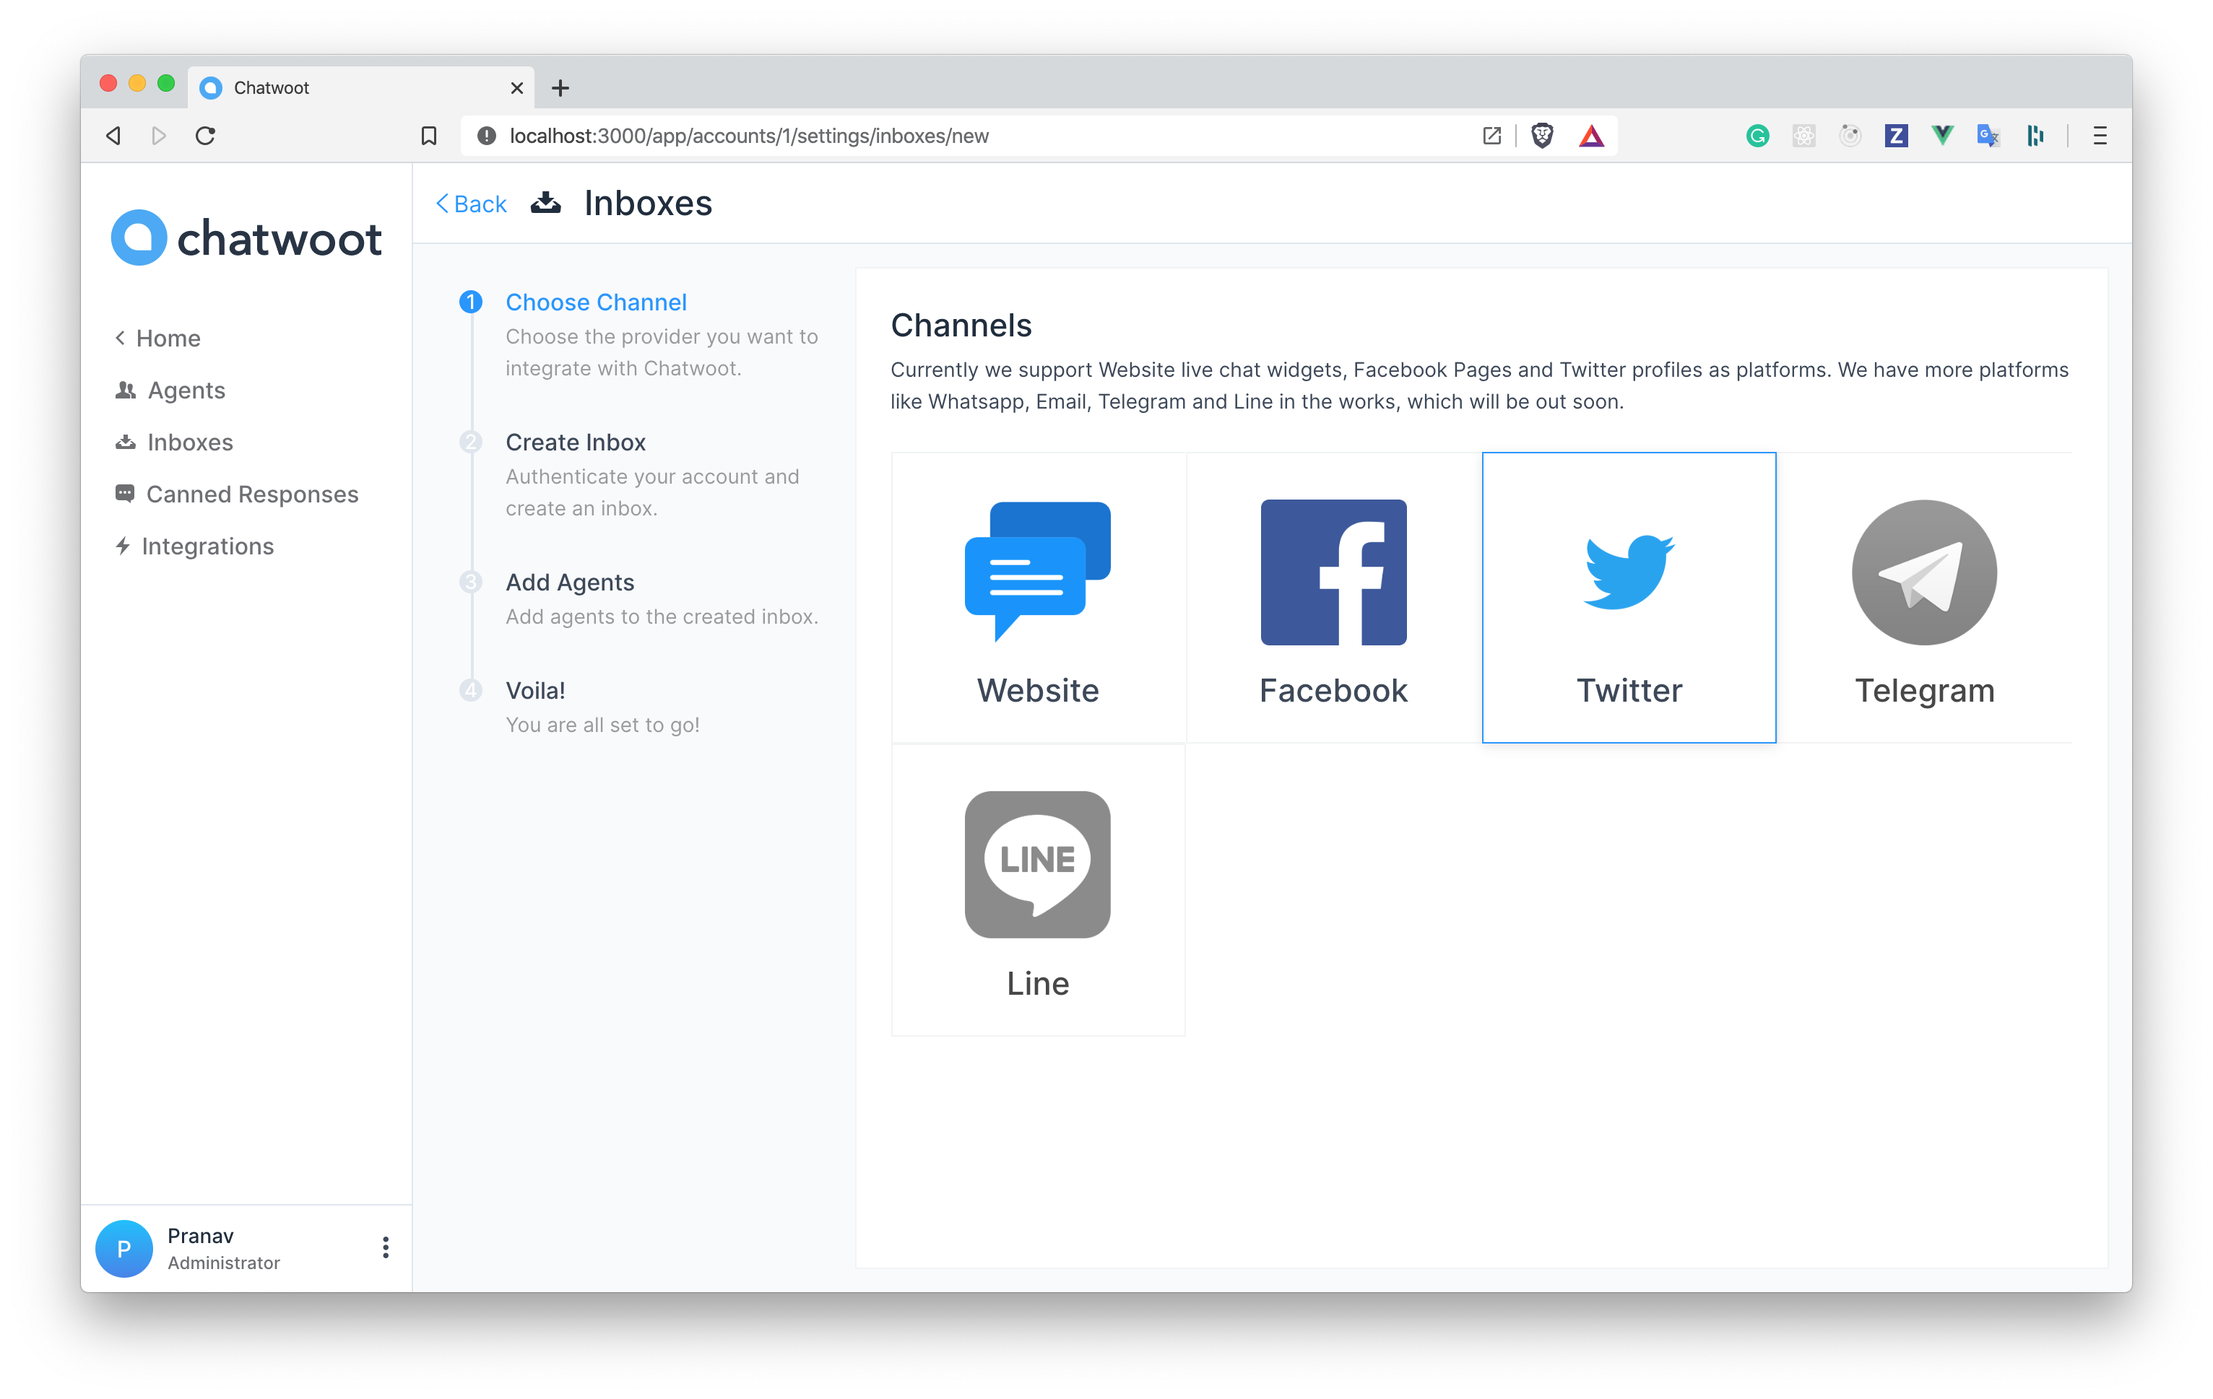
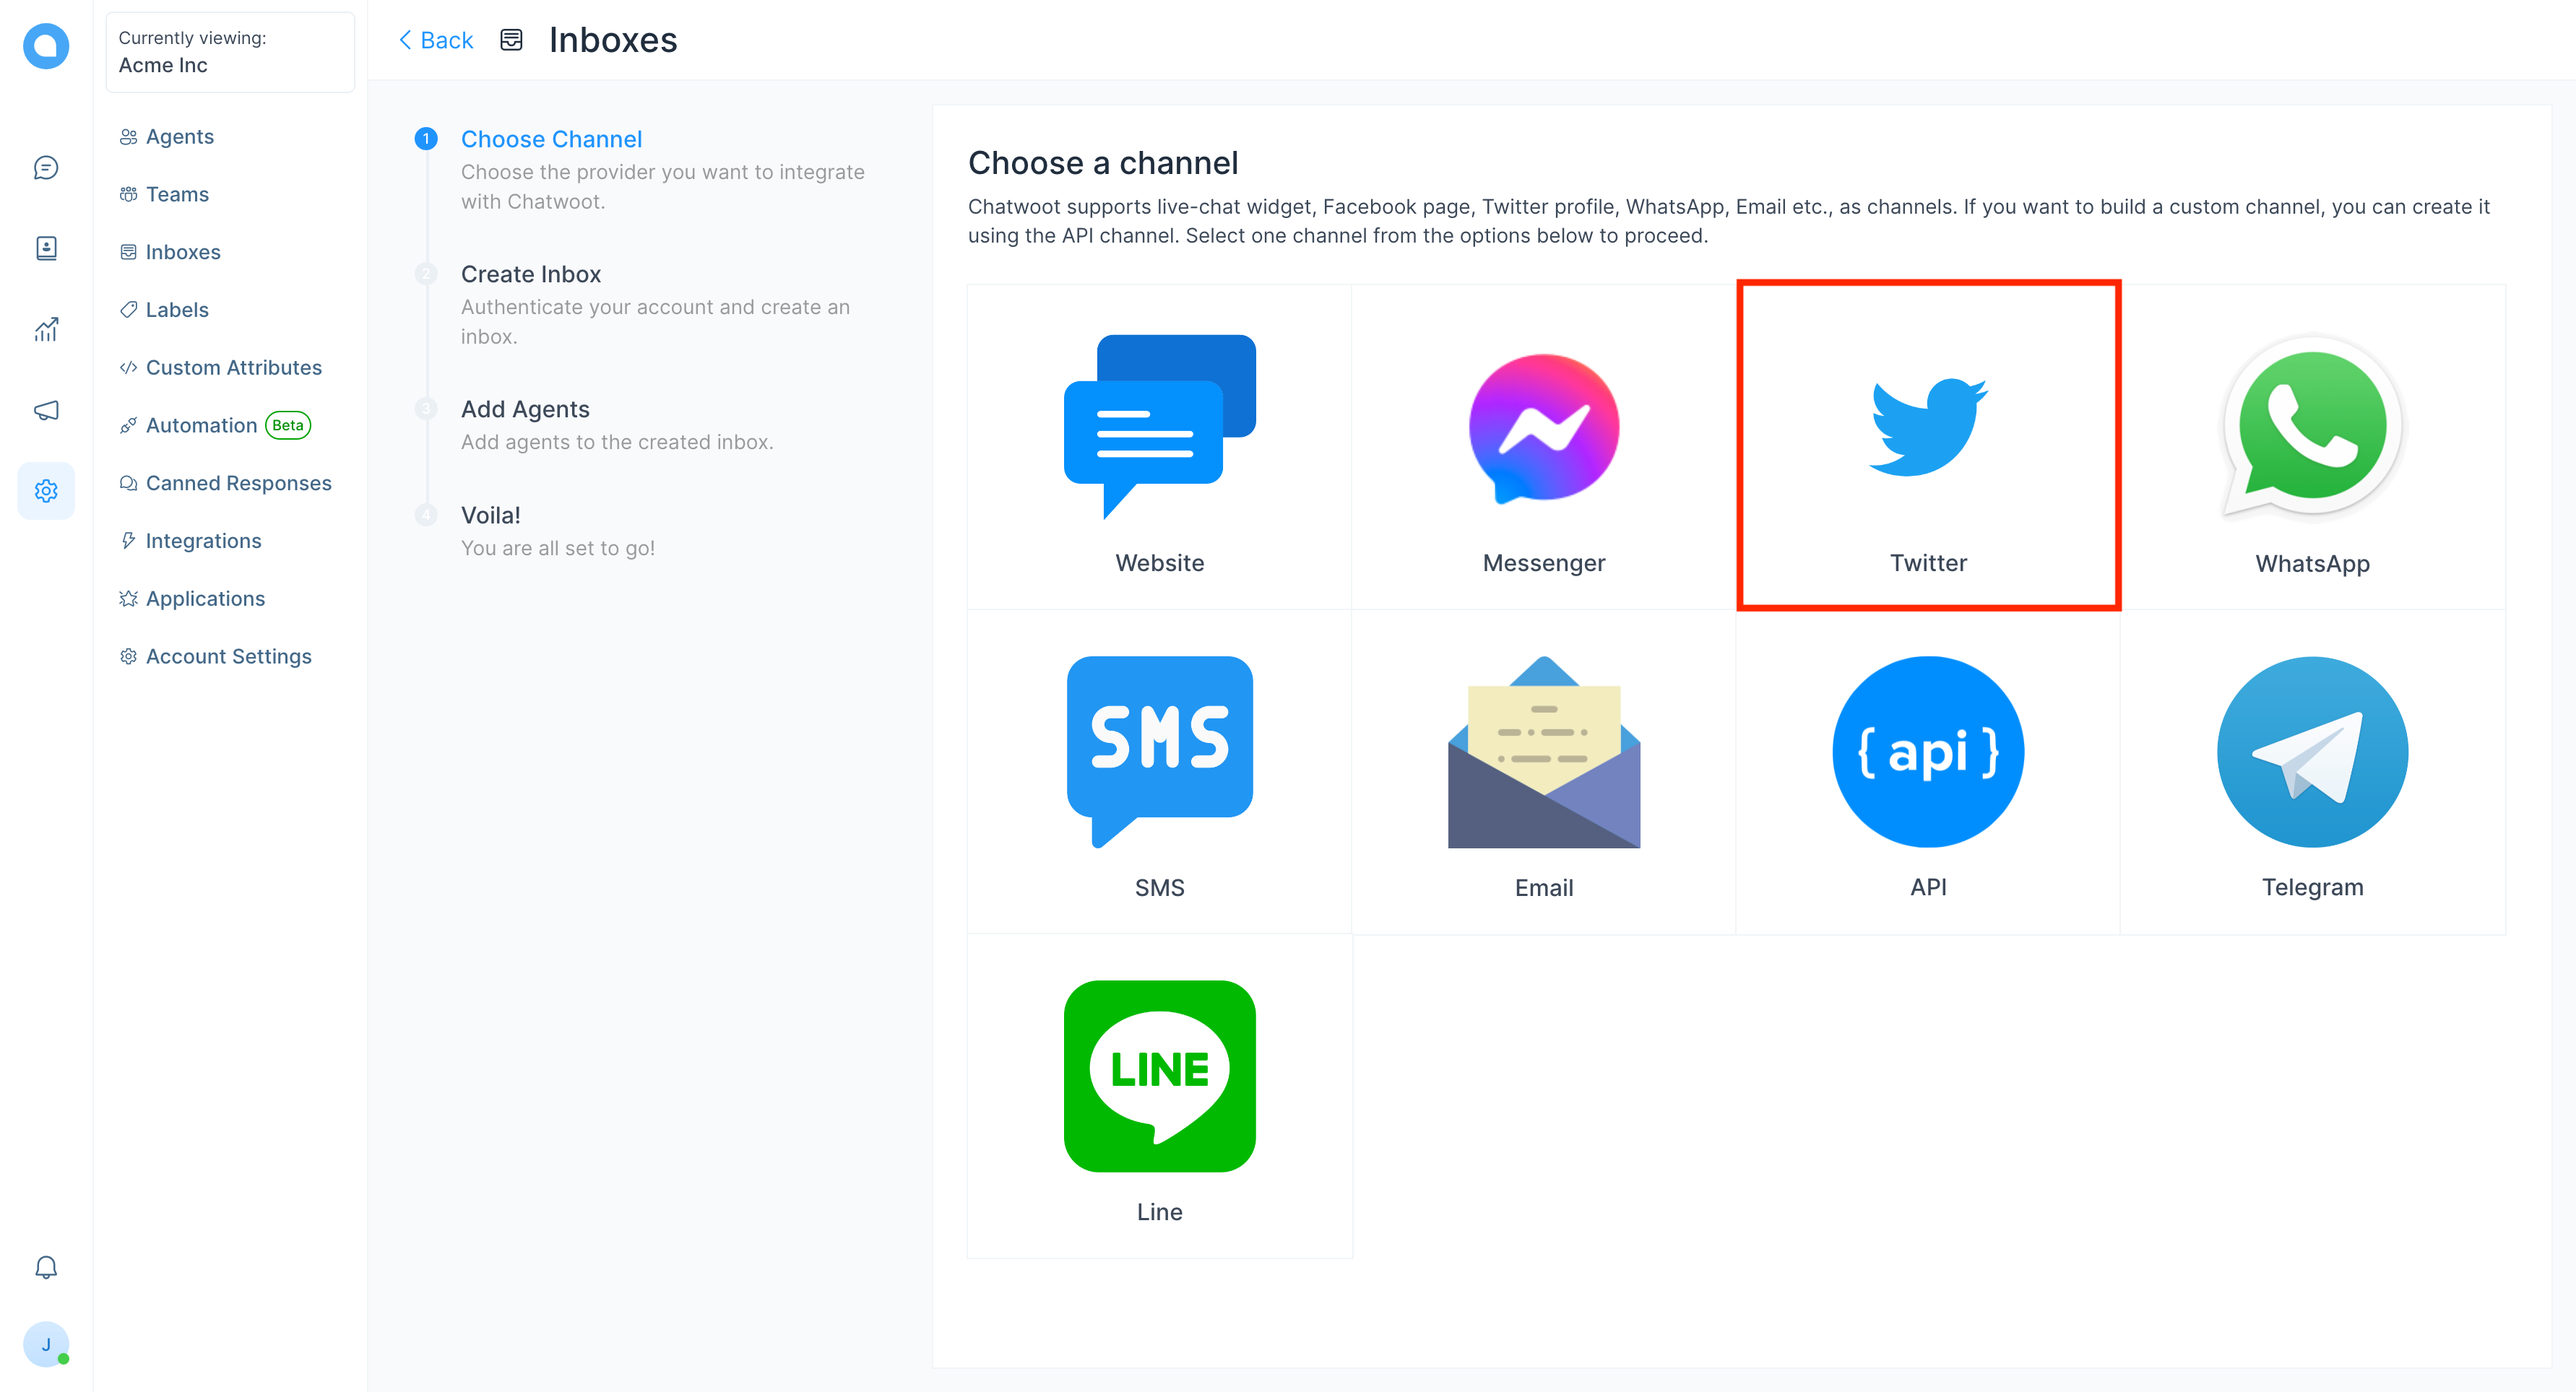
chore: Clean up Channel Instructions

diff --git a/config/sidebar/product.js b/config/sidebar/product.js
@@ -52,14 +52,17 @@ module.exports = [
       "product/channels/facebook",
       "product/channels/instagram",
       "product/channels/twitter",
-      "product/channels/twilio-whatsapp-sms",
       {
-        "API Channel": [
-          "product/channels/api/create-channel",
-          "product/channels/api/send-messages",
-          "product/channels/api/receive-messages",
-          "product/channels/api/client-apis",
-        ],
+        "Whatsapp Channel": [      
+          "product/channels/whatsapp/twilio",
+          "product/channels/whatsapp/360dialog"
+        ]
+      },
+      {
+        "SMS Channel": [      
+          "product/channels/sms/twilio",
+          "product/channels/sms/bandwidth"
+        ]
       },
       {
         Email: [
@@ -75,6 +78,14 @@ module.exports = [
               "product/channels/email/gmail/add-forward-email",
             ],
           },
+        ],
+      },
+      {
+        "API Channel": [
+          "product/channels/api/create-channel",
+          "product/channels/api/send-messages",
+          "product/channels/api/receive-messages",
+          "product/channels/api/client-apis",
         ],
       },
       "product/channels/telegram",

diff --git a/docs/product/channels/whatsapp/twilio.md b/docs/product/channels/whatsapp/twilio.md
@@ -1,0 +1,82 @@
+---
+sidebar_label: "Twilio"
+title: 'How to create a Whatsapp channel with Twilio?'
+---
+
+**Step 1**. Go to "Settings" page by clicking the settings icon in the left sidebar.
+
+![dashboard](../images/line/dashboard.png)
+
+**Step 2**. Select "Inboxes" from left side panel and Click on "Add Inbox" button.
+
+![inbox_settings](../images/line/inbox_settings.png)
+
+**Step 3**. Click on the Whatspp Icon.
+
+![inbox_settings](../images/whatsapp/select_whatsapp.png)
+
+**Step 4**. Select `Twilio` as the provider option and Configure the inbox.
+
+These are the inputs required to create this channel:
+
+<div class="table table-striped">
+
+| Input        | Description                                                                                                           | Where can I find it                                                                            |
+| ------------ | --------------------------------------------------------------------------------------------------------------------- | ---------------------------------------------------------------------------------------------- |
+| Inbox Name | This is the name inbox, this will be used across the application.                                                     | N/A                                                                                            |
+| Phone Number | This is the number you will be using to communicate with your customer. This has to be verified in Twilio.            | Enter your number as in the Twilio Dashboard                                                   |
+| Account SID  | Account SID in Twilio Console                                                                                         | Login to Twilio Console. Here, you would be able to see the Account SID and the Auth Token     |
+| Auth Token   | Auth token for the account                                                                                            | Login to the Twilio Console. Here, you would be able to see the Account SID and the Auth Token |
+
+</div>
+
+Click `Create Twilio Channel` after filling in the information.
+
+![create_twilio](../images/whatsapp/twilio_add_details.png)
+
+**Step 5**. "Add agents" to your inbox.
+
+![add_agents](../images/twilio/add_agents.png)
+
+**Step 6**. Hooray! You have successfully created a whatsapp inbox.
+
+![finish_inbox](../images/twilio/finish_inbox.png)
+
+
+To connect a **Whatsapp** channel, you have to configure a callback URL in the Twilio inbox:
+
+- Login to your Twilio Console.
+- Go to `Programmable SMS > Whatsapp > Senders`.
+- You will be able to see your phone number. Click on it, it will display a field like the one shown below.
+
+![twilio_console](../images/twilio/twilio_console.png)
+
+- Provide `https://app.chatwoot.com/twilio/callback` as the value for `WHEN A MESSAGE COMES IN` input.
+
+**Step 7**. If you want to update the agents who have access to the inbox, you can go to Settings > Inboxes.
+
+![inbox_settings](../images/twilio/inbox_settings.png)
+
+
+## Configuring Chatwoot with Twilio Studio 
+
+If you are using twilio studio for a custom conversation flow, Updating the webhook url directly will break your exising Integration. 
+
+For such cases you can follow the given steps. 
+
+1. Identify the step in your flow where you want the `agent handoff` to happen.
+2. Add a `make http request widget` as shown below with the give values
+
+![twilio_studio](../images/twilio/twilio_studio.png)
+
+**REQUEST METHOD** : POST
+
+**REQUEST URL**: https://app.chatwoot.com/twilio/callback
+
+**CONTENT TYPE**: Application/JSON
+
+**REQUEST BODY**: `{{trigger.message | to_json }}` ( make changes as required based on your flow variables)
+
+> HTTP request widget will forward the message body to Chatwoot. This will create a conversation in Chatwoot from where the agent can reply. 
+
+3. Make sure that your flow can handle the user reponses to Agent Replies. 

diff --git a/docs/product/channels/sms/twilio.md b/docs/product/channels/sms/twilio.md
@@ -1,0 +1,73 @@
+---
+sidebar_label: "Twilio"
+title: 'How to create a SMS channel with Twilio?'
+---
+
+**Step 1**. Go to "Settings" page by clicking the settings icon in the left sidebar.
+
+![dashboard](../images/line/dashboard.png)
+
+**Step 2**. Select "Inboxes" from left side panel and Click on "Add Inbox" button.
+
+![inbox_settings](../images/line/inbox_settings.png)
+
+**Step 3**. Click on the SMS Icon.
+
+![inbox_settings](../images/sms/select_sms.png)
+
+**Step 4**. Select `Twilio` as the provider option and Configure the inbox.
+
+These are the inputs required to create this channel:
+
+<div class="table table-striped">
+
+| Input        | Description                                                                                                           | Where can I find it                                                                            |
+| ------------ | --------------------------------------------------------------------------------------------------------------------- | ---------------------------------------------------------------------------------------------- |
+| Channel Name | This is the name inbox, this will be used across the application.                                                     | N/A                                                                                            | 
+| Phone Number | This is the number you will be using to communicate with your customer. This has to be verified in Twilio.            | Enter your number as in the Twilio Dashboard                                                   |
+| Account SID  | Account SID in Twilio Console                                                                                         | Login to Twilio Console. Here, you would be able to see the Account SID and the Auth Token     |
+| Auth Token   | Auth token for the account                                                                                            | Login to the Twilio Console. Here, you would be able to see the Account SID and the Auth Token |
+
+</div>
+
+Click `Create Twilio Channel` after filling in the information.
+
+![create_twilio](../images/sms/twilio_add_details.png)
+
+**Step 5**. "Add agents" to your inbox.
+
+![add_agents](../images/twilio/add_agents.png)
+
+**Step 6**. Hooray! You have successfully created a whatsapp/sms inbox.
+
+![finish_inbox](../images/twilio/finish_inbox.png)
+
+You will start receiving the messages in the dashboard whenever a customer sends you one.
+
+**Step 7**. If you want to update the agents who have access to the inbox, you can go to Settings > Inboxes.
+
+![inbox_settings](../images/twilio/inbox_settings.png)
+
+
+## Configuring Chatwoot with Twilio Studio 
+
+If you are using twilio studio for a custom conversation flow, Updating the webhook url directly will break your exising Integration. 
+
+For such cases you can follow the given steps. 
+
+1. Identify the step in your flow where you want the `agent handoff` to happen.
+2. Add a `make http request widget` as shown below with the give values
+
+![twilio_studio](../images/twilio/twilio_studio.png)
+
+**REQUEST METHOD** : POST
+
+**REQUEST URL**: https://app.chatwoot.com/twilio/callback
+
+**CONTENT TYPE**: Application/JSON
+
+**REQUEST BODY**: `{{trigger.message | to_json }}` ( make changes as required based on your flow variables)
+
+> HTTP request widget will forward the message body to Chatwoot. This will create a conversation in Chatwoot from where the agent can reply. 
+
+3. Make sure that your flow can handle the user reponses to Agent Replies. 

diff --git a/docs/product/channels/sms/bandwidth.md b/docs/product/channels/sms/bandwidth.md
@@ -1,0 +1,33 @@
+---
+sidebar_label: "Bandwidth"
+title: "How to create a SMS channel using Bandwidth?"
+---
+
+**Step 1**. Go to "Settings" page by clicking the settings icon in the left sidebar.
+
+![dashboard](../images/line/dashboard.png)
+
+**Step 2**. Select "Inboxes" from left side panel and Click on "Add Inbox" button.
+
+![inbox_settings](../images/line/inbox_settings.png)
+
+**Step 3**. Click on the SMS Icon.
+
+![inbox_settings](../images/sms/select_sms.png)
+
+**Step 4**. Select `Bandwidth` as the provider option and Configure the inbox.
+
+
+Click `Create Bandwidth Channel` after filling in the information.
+
+![create_bandwidth](../images/sms/bandwidth_add_details.png)
+
+**Step 5**. "Add agents" to your inbox.
+
+![add_agents](../images/twilio/add_agents.png)
+
+**Step 6**. Hooray! You have successfully created a sms inbox.
+
+![finish_inbox](../images/sms/bandwidth_finish_setup.png)
+
+You will start receiving the messages in the dashboard whenever a customer sends you one.

diff --git a/docs/product.md b/docs/product.md
@@ -21,9 +21,12 @@ This user guide includes a description of the features and capabilities, modes o
 - [Facebook](/docs/product/channels/facebook)
 - [Instagram](/docs/product/channels/instagram)
 - [Twitter](/docs/product/channels/twitter)
-- [Whatsapp via Twilio](/docs/product/channels/twilio-whatsapp-sms)
-- [API Channel](/docs/product/channels/api/create-channel)
+- [Whatsapp via Twilio](/docs/product/channels/whatsapp/twilio)
+- [Whatsapp via 360Dialog](/docs/product/channels/whatsapp/360dialog)
+- [SMS via Twilio](/docs/product/channels/whatsapp/twilio)
+- [SMS via Bandwidth](/docs/product/channels/whatsapp/bandwidth)
 - [Email](/docs/product/channels/email/create-channel)
+- [API Channel](/docs/product/channels/api/create-channel)
 - [Telegram](/docs/product/channels/telegram)
 - [Line](/docs/product/channels/line)
 

diff --git a/docs/product/channels/whatsapp/360dialog.md b/docs/product/channels/whatsapp/360dialog.md
@@ -1,0 +1,18 @@
+---
+sidebar_label: "360Dialog"
+title: "How to create a Whatsapp channel using 360Dialog API?"
+---
+
+**Step 1**. Go to "Settings" page by clicking the settings icon in the left sidebar.
+
+![dashboard](../images/line/dashboard.png)
+
+**Step 2**. Select "Inboxes" from left side panel and Click on "Add Inbox" button.
+
+![inbox_settings](../images/line/inbox_settings.png)
+
+**Step 3**. Click on "Whatsapp" icon.
+
+![list_of_channels](../images/whatsapp/360dialog.gif)
+
+**Step 4**. Fill in the required details and the Whatsapp Channel will be ready to use.

diff --git a/docs/product/channels/facebook.md b/docs/product/channels/facebook.md
@@ -9,7 +9,7 @@ If you are using a self-hosted Chatwoot installation, please configure the Faceb
 
 ![fb_create](./images/facebook/inbox_create.png)
 
-**Step 2**. Click on "Facebook" icon.
+**Step 2**. Click on "Messenger" icon.
 
 ![list_of_channels](./images/facebook/list_of_channels.png)
 
